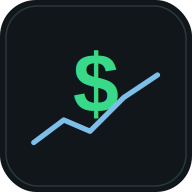
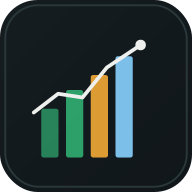
Add files via upload

diff --git a/index.html b/index.html
@@ -219,6 +219,8 @@
     .impacto-box .criollo{font-size:12px;}
   }
 </style>
+<link rel="icon" type="image/png" sizes="32x32" href="assets/icons/favicon-32.png">
+<link rel="icon" type="image/png" sizes="16x16" href="assets/icons/favicon-16.png">
 <link rel="manifest" href="manifest.json">
 <meta name="theme-color" content="#10161a">
 <link rel="apple-touch-icon" href="assets/icons/apple-touch-icon.png">
@@ -1279,6 +1281,21 @@ function descargarArchivo(contenido, nombreArchivo, mime){
   a.href = url; a.download = nombreArchivo;
   document.body.appendChild(a); a.click(); document.body.removeChild(a);
   URL.revokeObjectURL(url);
+  mostrarToast(`Descargado: ${nombreArchivo}`);
+}
+
+function mostrarToast(mensaje){
+  let toast = document.getElementById('toastAviso');
+  if(!toast){
+    toast = document.createElement('div');
+    toast.id = 'toastAviso';
+    toast.style.cssText = 'position:fixed; bottom:20px; left:50%; transform:translateX(-50%); background:var(--celeste); color:#0e1a20; padding:10px 18px; border-radius:8px; font-size:12.5px; font-weight:700; z-index:9999; box-shadow:0 8px 24px rgba(0,0,0,.4); transition:opacity .3s ease; opacity:0;';
+    document.body.appendChild(toast);
+  }
+  toast.textContent = mensaje;
+  toast.style.opacity = '1';
+  clearTimeout(toast._timeout);
+  toast._timeout = setTimeout(()=>{ toast.style.opacity = '0'; }, 2500);
 }
 
 function exportarCSV(tipo){

diff --git a/admin-carga.html b/admin-carga.html
@@ -40,6 +40,8 @@
   .hist-row b{color:var(--chalk);}
   #loginBox, #formBox{display:none;}
 </style>
+<link rel="icon" type="image/png" sizes="32x32" href="assets/icons/favicon-32.png">
+<link rel="icon" type="image/png" sizes="16x16" href="assets/icons/favicon-16.png">
 <link rel="manifest" href="manifest.json">
 <meta name="theme-color" content="#10161a">
 <link rel="apple-touch-icon" href="assets/icons/apple-touch-icon.png">

diff --git a/calendario.html b/calendario.html
@@ -14,6 +14,8 @@
   .cal-row:last-child{border-bottom:none;}
   .cal-row .date-chip{font-size:10px; color:var(--celeste); background:var(--celeste-bg); border:1px solid var(--celeste); border-radius:4px; padding:2px 7px; font-weight:700; white-space:nowrap; margin-left:10px;}
 </style>
+<link rel="icon" type="image/png" sizes="32x32" href="assets/icons/favicon-32.png">
+<link rel="icon" type="image/png" sizes="16x16" href="assets/icons/favicon-16.png">
 <link rel="manifest" href="manifest.json">
 <meta name="theme-color" content="#10161a">
 <link rel="apple-touch-icon" href="assets/icons/apple-touch-icon.png">

diff --git a/consumo.html b/consumo.html
@@ -9,6 +9,8 @@
 <link rel="stylesheet" href="assets/css/base.css">
 <script src="https://www.gstatic.com/firebasejs/10.12.2/firebase-app-compat.js"></script>
 <script src="https://www.gstatic.com/firebasejs/10.12.2/firebase-firestore-compat.js"></script>
+<link rel="icon" type="image/png" sizes="32x32" href="assets/icons/favicon-32.png">
+<link rel="icon" type="image/png" sizes="16x16" href="assets/icons/favicon-16.png">
 <link rel="manifest" href="manifest.json">
 <meta name="theme-color" content="#10161a">
 <link rel="apple-touch-icon" href="assets/icons/apple-touch-icon.png">

diff --git a/faq.html b/faq.html
@@ -16,6 +16,8 @@
   .faq-a{max-height:0; overflow:hidden; transition:max-height .25s ease; font-size:13px; color:var(--dim); line-height:1.55;}
   .faq-item.open .faq-a{max-height:300px; padding-top:10px;}
 </style>
+<link rel="icon" type="image/png" sizes="32x32" href="assets/icons/favicon-32.png">
+<link rel="icon" type="image/png" sizes="16x16" href="assets/icons/favicon-16.png">
 <link rel="manifest" href="manifest.json">
 <meta name="theme-color" content="#10161a">
 <link rel="apple-touch-icon" href="assets/icons/apple-touch-icon.png">

diff --git a/finanzas.html b/finanzas.html
@@ -19,6 +19,8 @@
   td.tasa{font-variant-numeric:tabular-nums; font-weight:800; color:var(--green); text-align:right;}
   .note-box{background:var(--celeste-bg); border:1px solid var(--celeste); border-radius:8px; padding:14px 16px; font-size:12px; color:var(--chalk); line-height:1.55; margin-top:12px;}
 </style>
+<link rel="icon" type="image/png" sizes="32x32" href="assets/icons/favicon-32.png">
+<link rel="icon" type="image/png" sizes="16x16" href="assets/icons/favicon-16.png">
 <link rel="manifest" href="manifest.json">
 <meta name="theme-color" content="#10161a">
 <link rel="apple-touch-icon" href="assets/icons/apple-touch-icon.png">

diff --git a/glosario.html b/glosario.html
@@ -28,6 +28,8 @@
   }
   #noResults{display:none;}
 </style>
+<link rel="icon" type="image/png" sizes="32x32" href="assets/icons/favicon-32.png">
+<link rel="icon" type="image/png" sizes="16x16" href="assets/icons/favicon-16.png">
 <link rel="manifest" href="manifest.json">
 <meta name="theme-color" content="#10161a">
 <link rel="apple-touch-icon" href="assets/icons/apple-touch-icon.png">

diff --git a/hogar.html b/hogar.html
@@ -9,6 +9,8 @@
 <link rel="stylesheet" href="assets/css/base.css">
 <script src="https://www.gstatic.com/firebasejs/10.12.2/firebase-app-compat.js"></script>
 <script src="https://www.gstatic.com/firebasejs/10.12.2/firebase-firestore-compat.js"></script>
+<link rel="icon" type="image/png" sizes="32x32" href="assets/icons/favicon-32.png">
+<link rel="icon" type="image/png" sizes="16x16" href="assets/icons/favicon-16.png">
 <link rel="manifest" href="manifest.json">
 <meta name="theme-color" content="#10161a">
 <link rel="apple-touch-icon" href="assets/icons/apple-touch-icon.png">

diff --git a/transporte.html b/transporte.html
@@ -18,6 +18,8 @@
   .fuel-card .price{font-size:24px; font-weight:800; margin-top:6px; font-variant-numeric:tabular-nums;}
   .fuel-card .note{font-size:9.5px; color:var(--dim); margin-top:4px;}
 </style>
+<link rel="icon" type="image/png" sizes="32x32" href="assets/icons/favicon-32.png">
+<link rel="icon" type="image/png" sizes="16x16" href="assets/icons/favicon-16.png">
 <link rel="manifest" href="manifest.json">
 <meta name="theme-color" content="#10161a">
 <link rel="apple-touch-icon" href="assets/icons/apple-touch-icon.png">